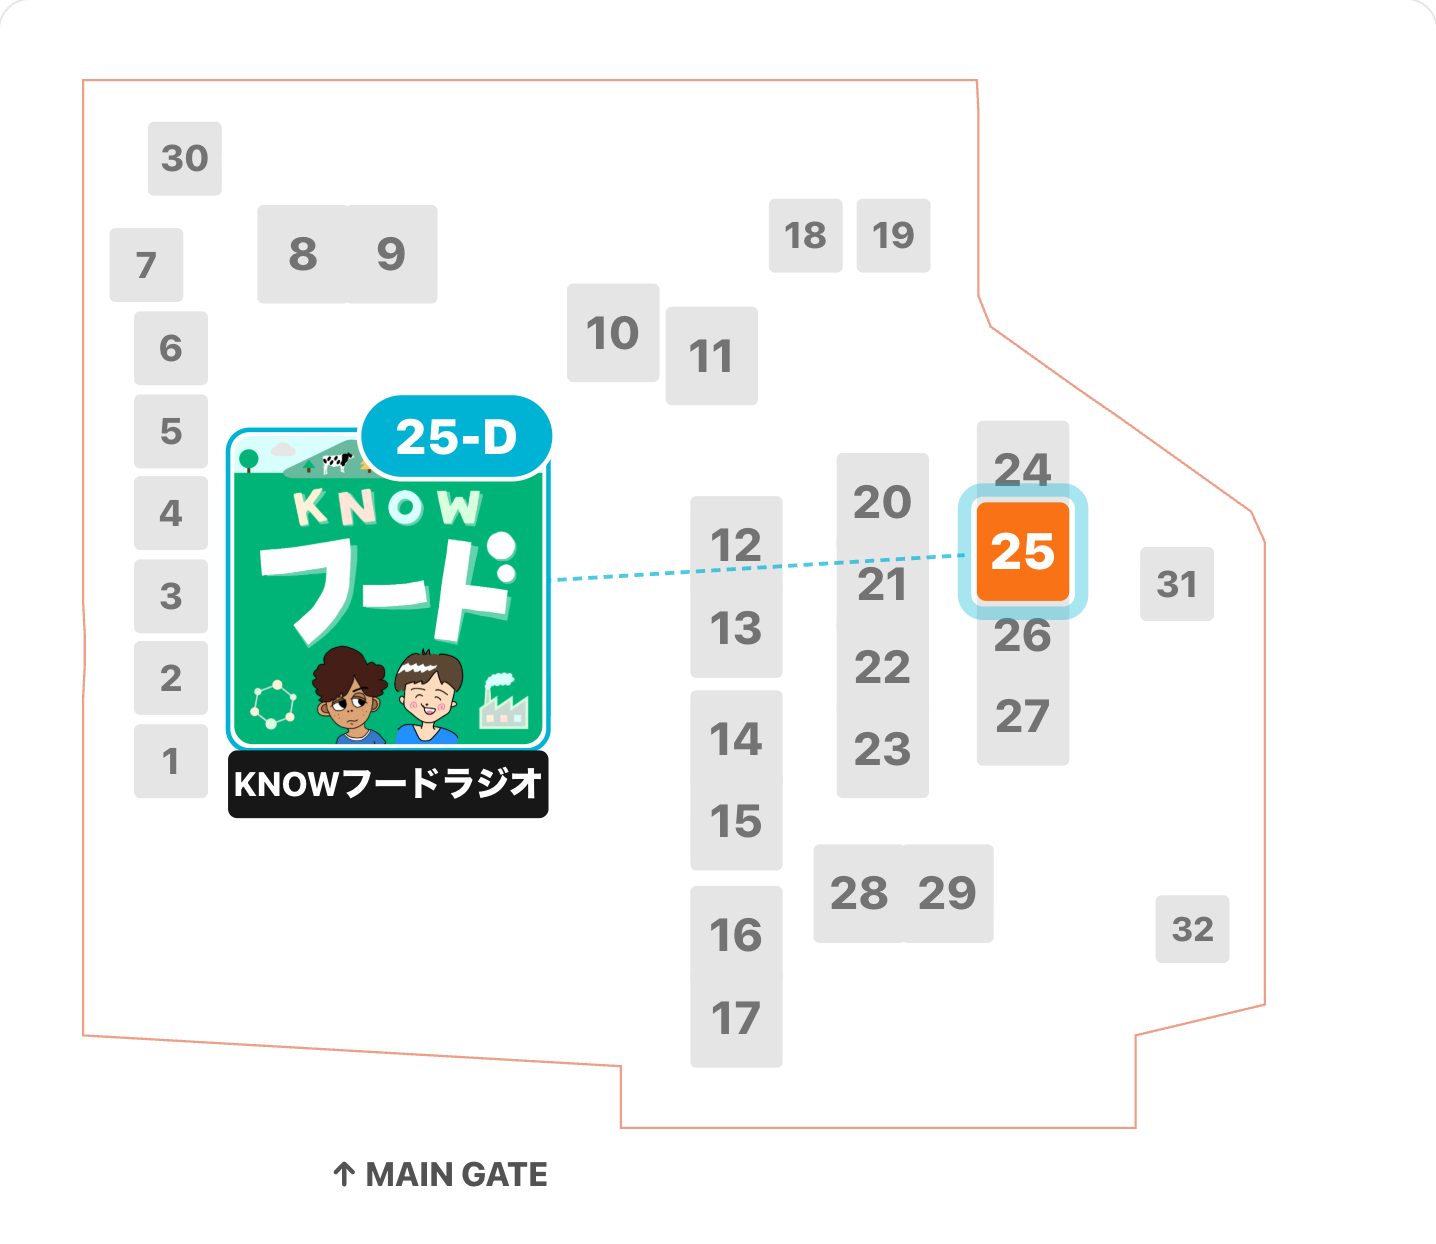
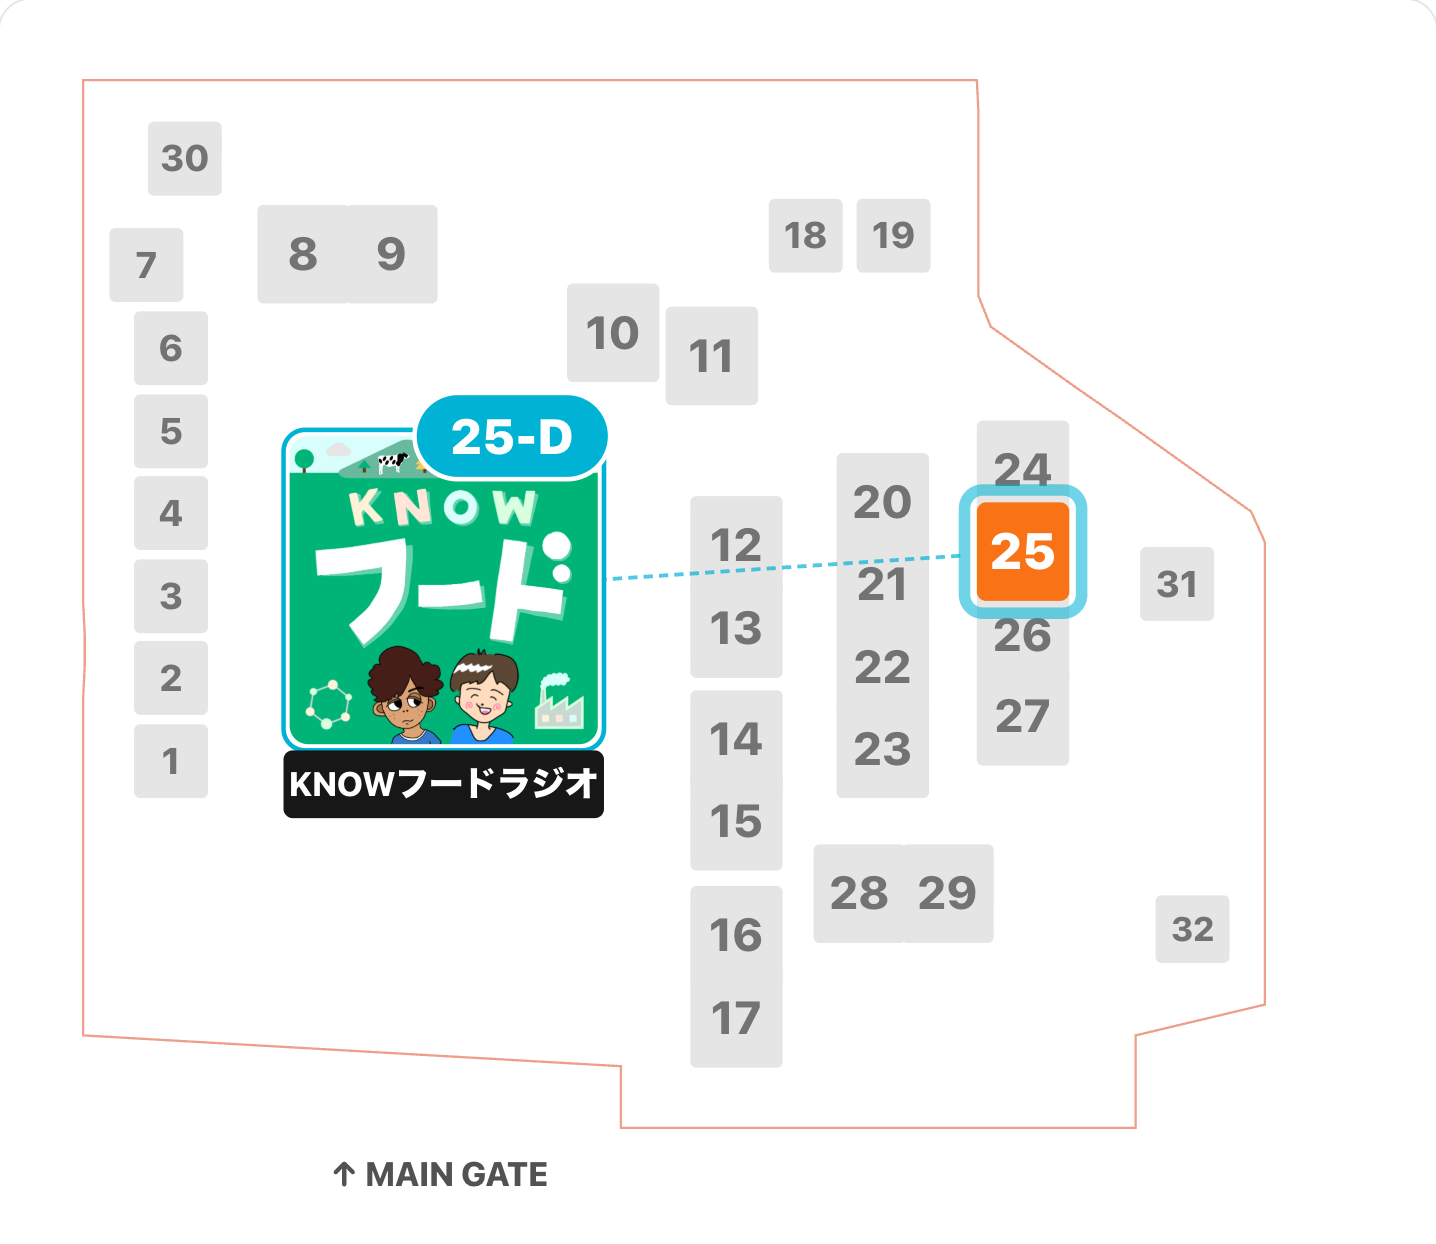
feat(booth-preview): サムネ位置を 0.6 テント幅右にシフト（最終調整）
【ユーザーフィードバック】
v3 の bigThumbX = imgW * 0.163 (152) は中央寄せだが左寄りすぎ。
旧版 (0.22 = 205) と新版 (0.163 = 152) の中間より少し右、
具体的に「0.6 テント幅分（≈ 36px）右」が見た目ちょうどいい。

【数値】
- bigThumbX = imgW * 0.202 (~188)
- 左余白（テント 1-7 右端 x=135 まで）: 53px
- 右余白（テント 10 左端 x=368 まで）: -20px（4px 重なるが許容範囲）

ブラウザ表示（番組詳細ページの「ブース位置」）も同コンポーネント使用のため
自動的に同レイアウトになる。Vercel デプロイで即反映。

🤖 Generated with [Claude Code](https://claude.com/claude-code)

Changed region(s): [[0.1532, 0.3055, 0.4903, 0.672], [0.5209, 0.3666, 0.766, 0.5193]]

diff --git a/src/app/_components/BoothPositionPreview.tsx b/src/app/_components/BoothPositionPreview.tsx
@@ -78,13 +78,15 @@ export function BoothPositionPreview({
   // 中央列）に固定配置。テント位置（focus が右上 / 左下 / どこでも）に
   // 依らない一貫レイアウト。
   //
-  // 配置数値の根拠（imgW=932, imgH=808 前提、booth-positions.json 実測）:
+  // 配置数値（imgW=932, imgH=808 前提、ユーザー指示で微調整済み）:
   //   - 左端テント 1-7 の右端: x=135
   //   - 右側テント 10 の左端: x=368
-  //   - 利用可能幅: 233px、サムネ 200px なら左右余白 16〜17px ずつで均等
+  //   - サムネ 200px 幅。完全中央寄せ（x=152）だと左寄りすぎたので、
+  //     0.6 テント幅（≈ 36px）右にズラして x=188 に配置。
+  //     左余白 53px / 右余白 -20px（テント 10 と 4px 重なるが視覚的に許容範囲）
   // ─────────────────────────────────────────────────────────────
   const bigThumbSize = Math.round(imgW * 0.215); // ~200
-  const bigThumbX = Math.round(imgW * 0.163); // ~152（左端テント右端 +17px）
+  const bigThumbX = Math.round(imgW * 0.202); // ~188（中央寄せ +0.6 テント幅）
   const bigThumbY = Math.round(imgH * 0.35); // ~283
   const labelHeight = Math.round(bigThumbSize * 0.22);
   const bigThumbCx = bigThumbX + bigThumbSize / 2;
